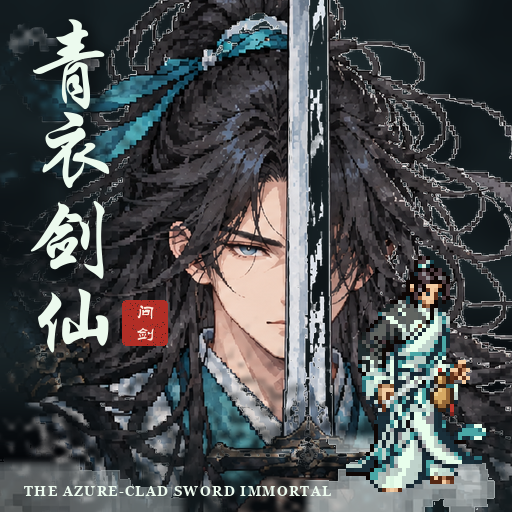
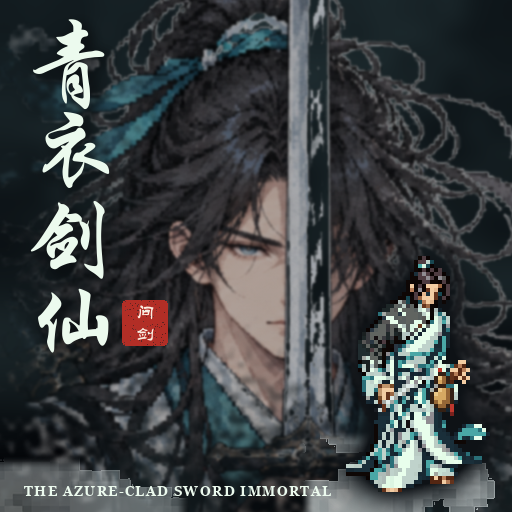
封面和横幅：原画压暗、轻微虚化，像素剑仙身后加墨晕；/qyboss final 直接进入最后一剑

diff --git a/tools/make_banner.py b/tools/make_banner.py
@@ -44,6 +44,29 @@ def painting():
     return Image.fromarray(out, "RGBA")
 
 
+def recede(img, dim, blur):
+    """原画退到后面：压暗、稍微去饱和、轻微虚化（景深），让清晰的像素剑仙跳到前面。"""
+    arr = np.asarray(img).astype(float)
+    rgb = arr[..., :3]
+    grey = rgb.mean(axis=2, keepdims=True)
+    rgb = (rgb * 0.8 + grey * 0.2) * dim + np.array(INK) * (1 - dim)
+    arr[..., :3] = rgb
+    out = Image.fromarray(np.clip(arr, 0, 255).astype(np.uint8), "RGBA")
+    return out.filter(ImageFilter.GaussianBlur(blur)) if blur else out
+
+
+def ink_halo(canvas, sprite, pos, spread, strength):
+    """像素剑仙身后压一团墨晕：把身后的画压暗，人物轮廓才清楚。"""
+    pad = spread * 3
+    a = Image.new("L", (sprite.width + pad * 2, sprite.height + pad * 2), 0)
+    a.paste(sprite.getchannel("A"), (pad, pad))
+    a = a.filter(ImageFilter.MaxFilter(9)).filter(ImageFilter.GaussianBlur(spread))
+    arr = (np.asarray(a).astype(float) * strength).clip(0, 255).astype(np.uint8)
+    halo = Image.new("RGBA", a.size, INK + (0,))
+    halo.putalpha(Image.fromarray(arr, "L"))
+    canvas.alpha_composite(halo, (pos[0] - pad, pos[1] - pad))
+
+
 def fade_edges(img, left=0, right=0, top=0, bottom=0):
     """边缘化进墨里：用带噪声的渐隐，边是毛的，不是一刀切的直线。"""
     w, h = img.size
@@ -137,7 +160,7 @@ def cover():
     c = ink_ground(W, H)
     # 法相：脸和剑占右侧大半
     p = painting().crop((540, 20, 1260, 740)).resize((560, 560), Image.LANCZOS)
-    p = fade_edges(p, left=170, bottom=200, right=30)
+    p = recede(fade_edges(p, left=170, bottom=200, right=30), 0.72, 1.2)
     c.alpha_composite(p, (W - 560 + 40, -10))
     # 像素祥云和剑仙：左下，在法相前面
     cl = clouds()
@@ -145,7 +168,9 @@ def cover():
     c.alpha_composite(tint(unpremultiply(cl[0]), (190, 205, 206), 0.45), (-90, 455))
     # 剑仙站在右下、白袍前面，不挡脸和眼睛
     b = pixel(boss_sprite(), 2)
-    c.alpha_composite(b, (W - b.width - 22, H - b.height - 20))
+    pos = (W - b.width - 22, H - b.height - 20)
+    ink_halo(c, b, pos, 16, 1.6)
+    c.alpha_composite(b, pos)
     # 标题：竖排行楷，左上
     title_with_shadow(c, "青衣剑仙", ImageFont.truetype(FONT_TITLE, 92), (28, 18), vertical=True, gap=-6)
     c.alpha_composite(seal(46, "问剑"), (122, 300))
@@ -160,7 +185,7 @@ def banner():
     p = painting()
     scale = 760 / 941 * 1.05
     p = p.resize((int(p.width * scale), int(p.height * scale)), Image.LANCZOS)
-    p = fade_edges(p, left=380, right=160, bottom=220)
+    p = recede(fade_edges(p, left=380, right=160, bottom=220), 0.68, 1.5)
     c.alpha_composite(p, (W - p.width + 60, -40))
     cl = clouds()
     # 像素祥云按原图的像素大小，不放大（放大成大方块就不像一幅画了）
@@ -168,7 +193,9 @@ def banner():
         c.alpha_composite(tint(unpremultiply(cl[i]), (200, 214, 214), a), (x, y))
     # 剑仙站在标题和法相之间，脚下一朵云
     b = pixel(boss_sprite(), 3)
-    c.alpha_composite(b, (930, H - b.height - 36))
+    pos = (930, H - b.height - 36)
+    ink_halo(c, b, pos, 24, 1.6)
+    c.alpha_composite(b, pos)
     title_with_shadow(c, "青衣剑仙", ImageFont.truetype(FONT_TITLE, 170), (90, 110), vertical=False, gap=-14)
     c.alpha_composite(seal(84, "问剑"), (724, 130))
     d = ImageDraw.Draw(c)

diff --git a/QingyiJianxian/Common/DevRecorder.cs b/QingyiJianxian/Common/DevRecorder.cs
@@ -203,7 +203,7 @@ namespace QingyiJianxian.Common
 			("stroke", "Stroke", 0.9f), ("flight", "Swordflight", 0.9f), ("leaves", "Leaves", 0.9f),
 			("flurry", "Flurry", 0.5f), ("river", "River", 0.5f), ("ring", "Ring", 0.5f),
 			("hang", "Hang", 0.2f), ("brush", "Brush", 0.2f), ("unbound", "Unbound", 0.2f), ("drunk", "Drunk", 0.2f),
-			("p1", null, 0.9f), ("p2", null, 0.5f), ("p3", null, 0.2f), ("final", null, 0.06f),
+			("p1", null, 0.9f), ("p2", null, 0.5f), ("p3", null, 0.2f), ("final", null, 0.04f),
 		};
 
 		public override CommandType Type => CommandType.Chat;
